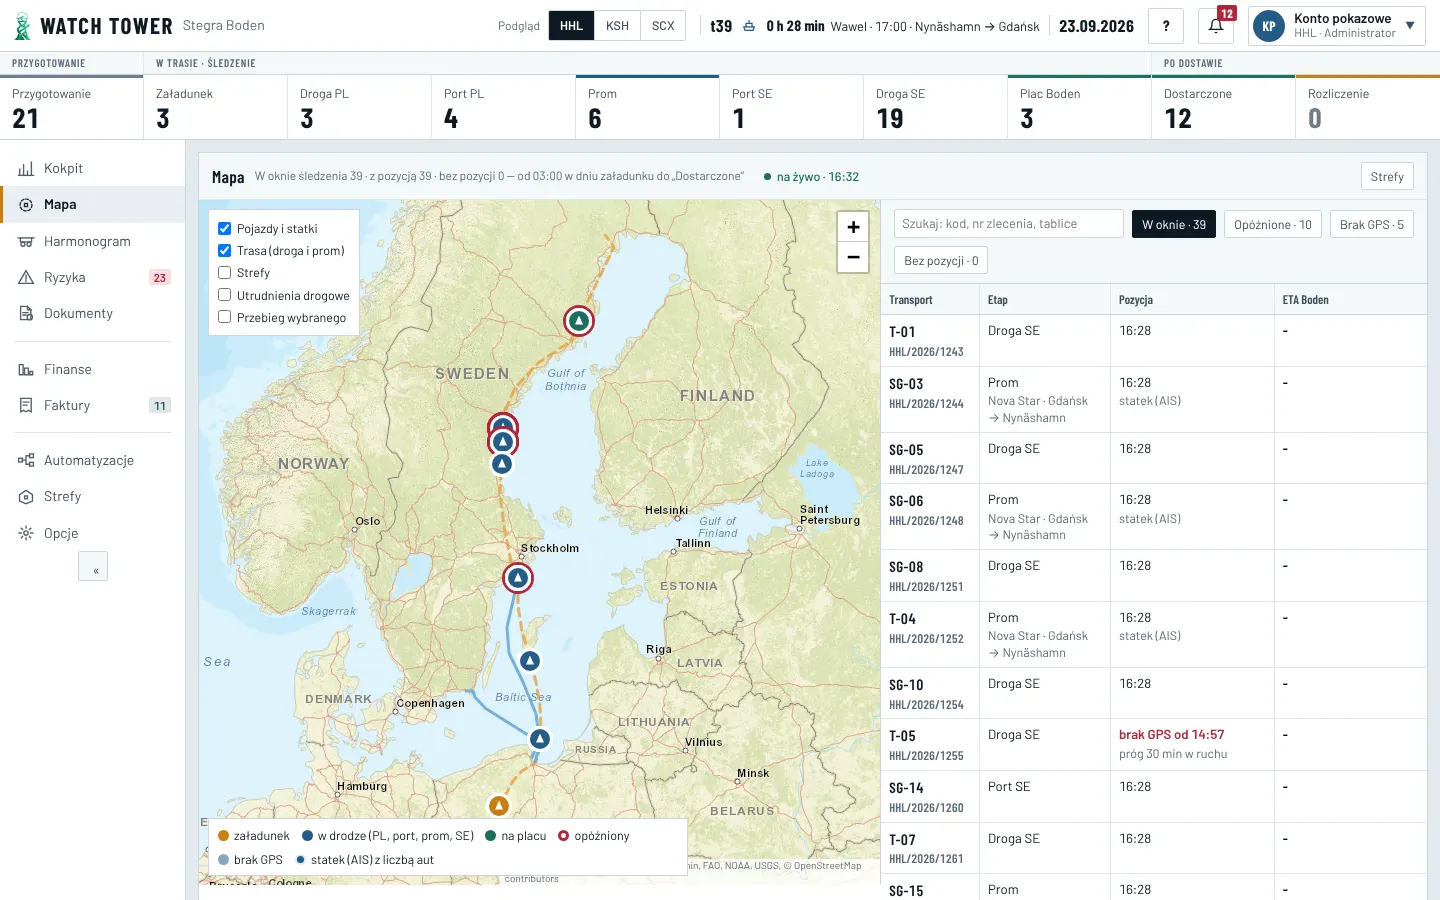
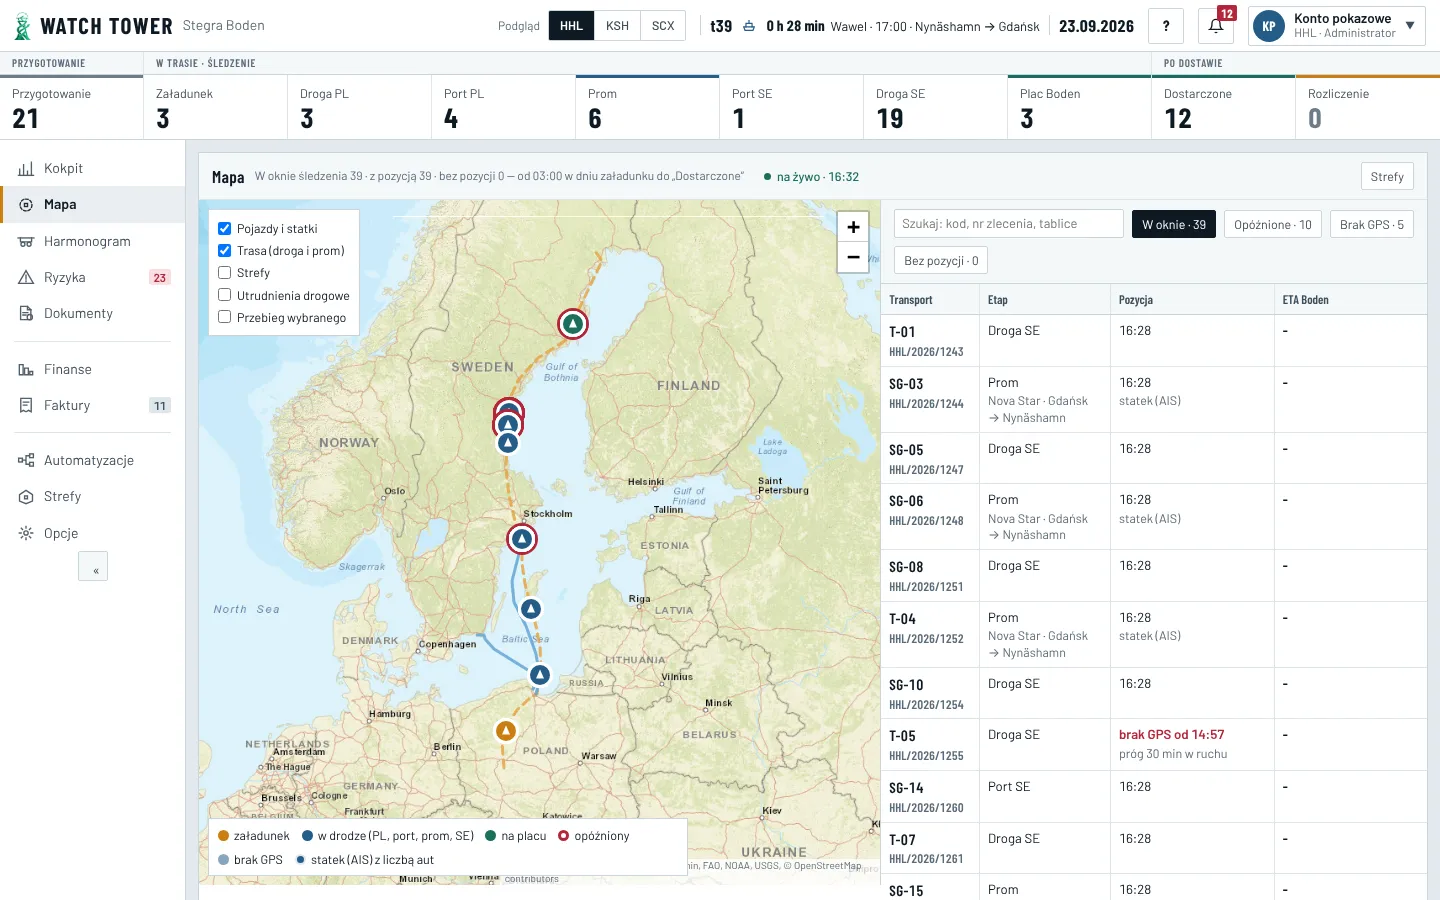
wyglad/P9-d: kadr Mapy nad legendą (legenda nie zasłania Śremu)
corridorPadding: na stronie Mapa margines dolny 24 px liczony od górnej
krawędzi legendy leżącej na mapie; Kokpit, panel i telefon bez zmian.
Ten sam rachunek w corridorView (AUD-01e — zero nowych kafelków przy powrocie).
e2e P9-d: trasa nad legendą; zrzuty odbior/P9-d odświeżone.

Claude-Session: https://claude.ai/code/session_01S36qMbEWpRWj55jt4pBR6E

diff --git a/src/components/map/mapPool.ts b/src/components/map/mapPool.ts
@@ -81,22 +81,41 @@ export function corridorBoundsOf(): L.LatLngBounds {
   return corridorBounds;
 }
 export const CORRIDOR_PADDING = 24;
+/**
+ * Margines kadru (E1: 24 px). Na stronie Mapa legenda leży na dole mapy — margines dolny liczony od jej górnej krawędzi,
+ * żeby legenda nie zasłaniała początku trasy (Śrem). Kokpit, panel i telefon (legenda w arkuszu) — bez legendy na mapie.
+ */
+export function corridorPadding(map: L.Map): { paddingTopLeft: L.PointTuple; paddingBottomRight: L.PointTuple } {
+  let extra = 0;
+  try {
+    const key = map.getContainer().closest('.corridor-map-root')?.querySelector<HTMLElement>('.mapkey');
+    if (key && key.offsetHeight > 0) {
+      const root = key.offsetParent as HTMLElement | null;
+      const fromBottom = root ? root.clientHeight - key.offsetTop : key.offsetHeight;
+      extra = Math.max(0, Math.round(fromBottom));
+    }
+  } catch {
+    /* mapa bez kontenera */
+  }
+  return { paddingTopLeft: [CORRIDOR_PADDING, CORRIDOR_PADDING], paddingBottomRight: [CORRIDOR_PADDING, CORRIDOR_PADDING + extra] };
+}
 /** Widok całej trasy dla bieżącego rozmiaru mapy (bez ruszania mapy). */
 export function corridorView(map: L.Map): { center: L.LatLng; zoom: number } {
   const b = corridorBoundsOf();
   /* ten sam rachunek co `fitBounds` (środek w rzucie mapy, nie średnia stopni) — powrót bez zmiany widoku = zero kafelków */
   const m = map as unknown as { _getBoundsCenterZoom?: (bb: L.LatLngBounds, o: L.FitBoundsOptions) => { center: L.LatLng; zoom: number } };
   if (typeof m._getBoundsCenterZoom === 'function') {
-    return m._getBoundsCenterZoom(b, { padding: [CORRIDOR_PADDING, CORRIDOR_PADDING] });
+    return m._getBoundsCenterZoom(b, corridorPadding(map));
   }
-  const zoom = map.getBoundsZoom(b, false, L.point(CORRIDOR_PADDING * 2, CORRIDOR_PADDING * 2));
+  const pad = corridorPadding(map);
+  const zoom = map.getBoundsZoom(b, false, L.point(pad.paddingTopLeft).add(pad.paddingBottomRight));
   return { center: b.getCenter(), zoom };
 }
 /** Kadr całej trasy (E1). */
 export function fitCorridor(map: L.Map): void {
   try {
     if (!map.getPane('mapPane')) return;
-    map.fitBounds(corridorBoundsOf(), { padding: [CORRIDOR_PADDING, CORRIDOR_PADDING], animate: false });
+    map.fitBounds(corridorBoundsOf(), { ...corridorPadding(map), animate: false });
   } catch {
     /* mapa usunięta albo bez rozmiaru */
   }

diff --git a/tests/e8-phone-gate.spec.ts b/tests/e8-phone-gate.spec.ts
@@ -404,6 +404,9 @@ test.describe('wyglad/P9-d kadr całej trasy (E1)', () => {
     await page.waitForTimeout(600);
     const a = await routeBox(page, '[data-page="map"] .mapbox');
     expect(a.inside, JSON.stringify(a)).toBe(true);
+    /* legenda leży na mapie — trasa (także Śrem) nad nią, z marginesem */
+    const lg = (await page.locator('[data-page="map"] .mapkey').boundingBox())!;
+    expect(a.u.b, 'trasa nad legendą').toBeLessThanOrEqual(lg.y - 20);
     const box = (await page.locator('[data-page="map"] .leaflet-container').boundingBox())!;
     await page.mouse.move(box.x + box.width / 2, box.y + box.height / 2);
     await page.mouse.down();

diff --git a/docs/handover/odbior/P9-d/POROWNANIE.md b/docs/handover/odbior/P9-d/POROWNANIE.md
@@ -9,7 +9,7 @@ Wygląd i zachowanie widoku (F8), bez danych. **Złożone na #248 (`wyglad/P9-c`
 
 | Miejsce | Było | Jest |
 |---|---|---|
-| Mapa | stały środek 58,5 N 18,5 E, przybliżenie 4,2; przesunięcie zapamiętane | cała trasa (Śrem → Boden, promy) z marginesem 24 px przy każdym wejściu i zmianie rozmiaru; przesunięcie nie jest pamiętane |
+| Mapa | stały środek 58,5 N 18,5 E, przybliżenie 4,2; przesunięcie zapamiętane | cała trasa (Śrem → Boden, promy) z marginesem 24 px przy każdym wejściu i zmianie rozmiaru; od dołu margines liczony od górnej krawędzi legendy (legenda nie zasłania Śremu); przesunięcie nie jest pamiętane |
 | Kokpit (kafelek mapy) | jak wyżej; na 360 px Boden ucięty | cała trasa w kafelku na każdej szerokości |
 | Kokpit — zakres | wszystkie transporty z danych (także innych firm w podglądzie) | te same co Mapa: swoja firma, w oknie śledzenia |
 | Przegląd w panelu | kadr jak ostatnio w panelu | przybliżenie 11, pojazd na środku, podążanie co 60 s; po przesunięciu albo „+/−” mapa zostaje tam, gdzie użytkownik ją zostawił |
@@ -18,7 +18,7 @@ Wygląd i zachowanie widoku (F8), bez danych. **Złożone na #248 (`wyglad/P9-c`
 Wspólna mapa na sesję (AUD-01e) zostaje: powrót na Mapę bez zmiany rozmiaru — zero nowych kafelków (porównanie widoku co do piksela).
 
 **Sprawdzone:**
-- e2e blok P9-d — 3/3: trasa w kadrze z marginesem na Mapie i w Kokpicie, po przesunięciu i powrocie znów cała; Przegląd — kafelki 11, pojazd na środku (±3 px); Kokpit = Mapa (KSH);
+- e2e blok P9-d — 3/3: trasa w kadrze z marginesem na Mapie i w Kokpicie, na Mapie nad legendą, po przesunięciu i powrocie znów cała; Przegląd — kafelki 11, pojazd na środku (±3 px); Kokpit = Mapa (KSH);
 - regresja: AUD-01e (zero nowych kafelków przy powrocie, powrót ≤ 0,3 s), brama E8 telefon, P9-c, P9-a, P3-b Kokpit, P4, P4-b;
 - unit — cały zestaw zielony;
 - pierwsze wczytanie 395,8 kB gzip.

diff --git a/docs/handover/dopiski/D-20261016-0635-01.md b/docs/handover/dopiski/D-20261016-0635-01.md
@@ -11,7 +11,7 @@ Rodzaj: K — informacja dla wykonawcy (Cursor). Stan: nie przerywa bieżącej p
 ## 1. E1 jest w całości w PR `wyglad/P9-d`
 Nie robisz E1 osobno. Zrobione:
 - `mapPool.ts`:
-  - `corridorBoundsOf` / `corridorView` / `fitCorridor` (trasa wzorcowa, linie promów, Śrem i Boden; margines 24 px; `zoomSnap` 0,25);
+  - `corridorBoundsOf` / `corridorView` / `fitCorridor` (trasa wzorcowa, linie promów, Śrem i Boden; margines 24 px, na Mapie od dołu od górnej krawędzi legendy — `corridorPadding`; `zoomSnap` 0,25);
   - Kokpit i Mapa bez zapamiętanego widoku.
 - `CorridorMap.tsx`:
   - kadr po zmianie rozmiaru;
